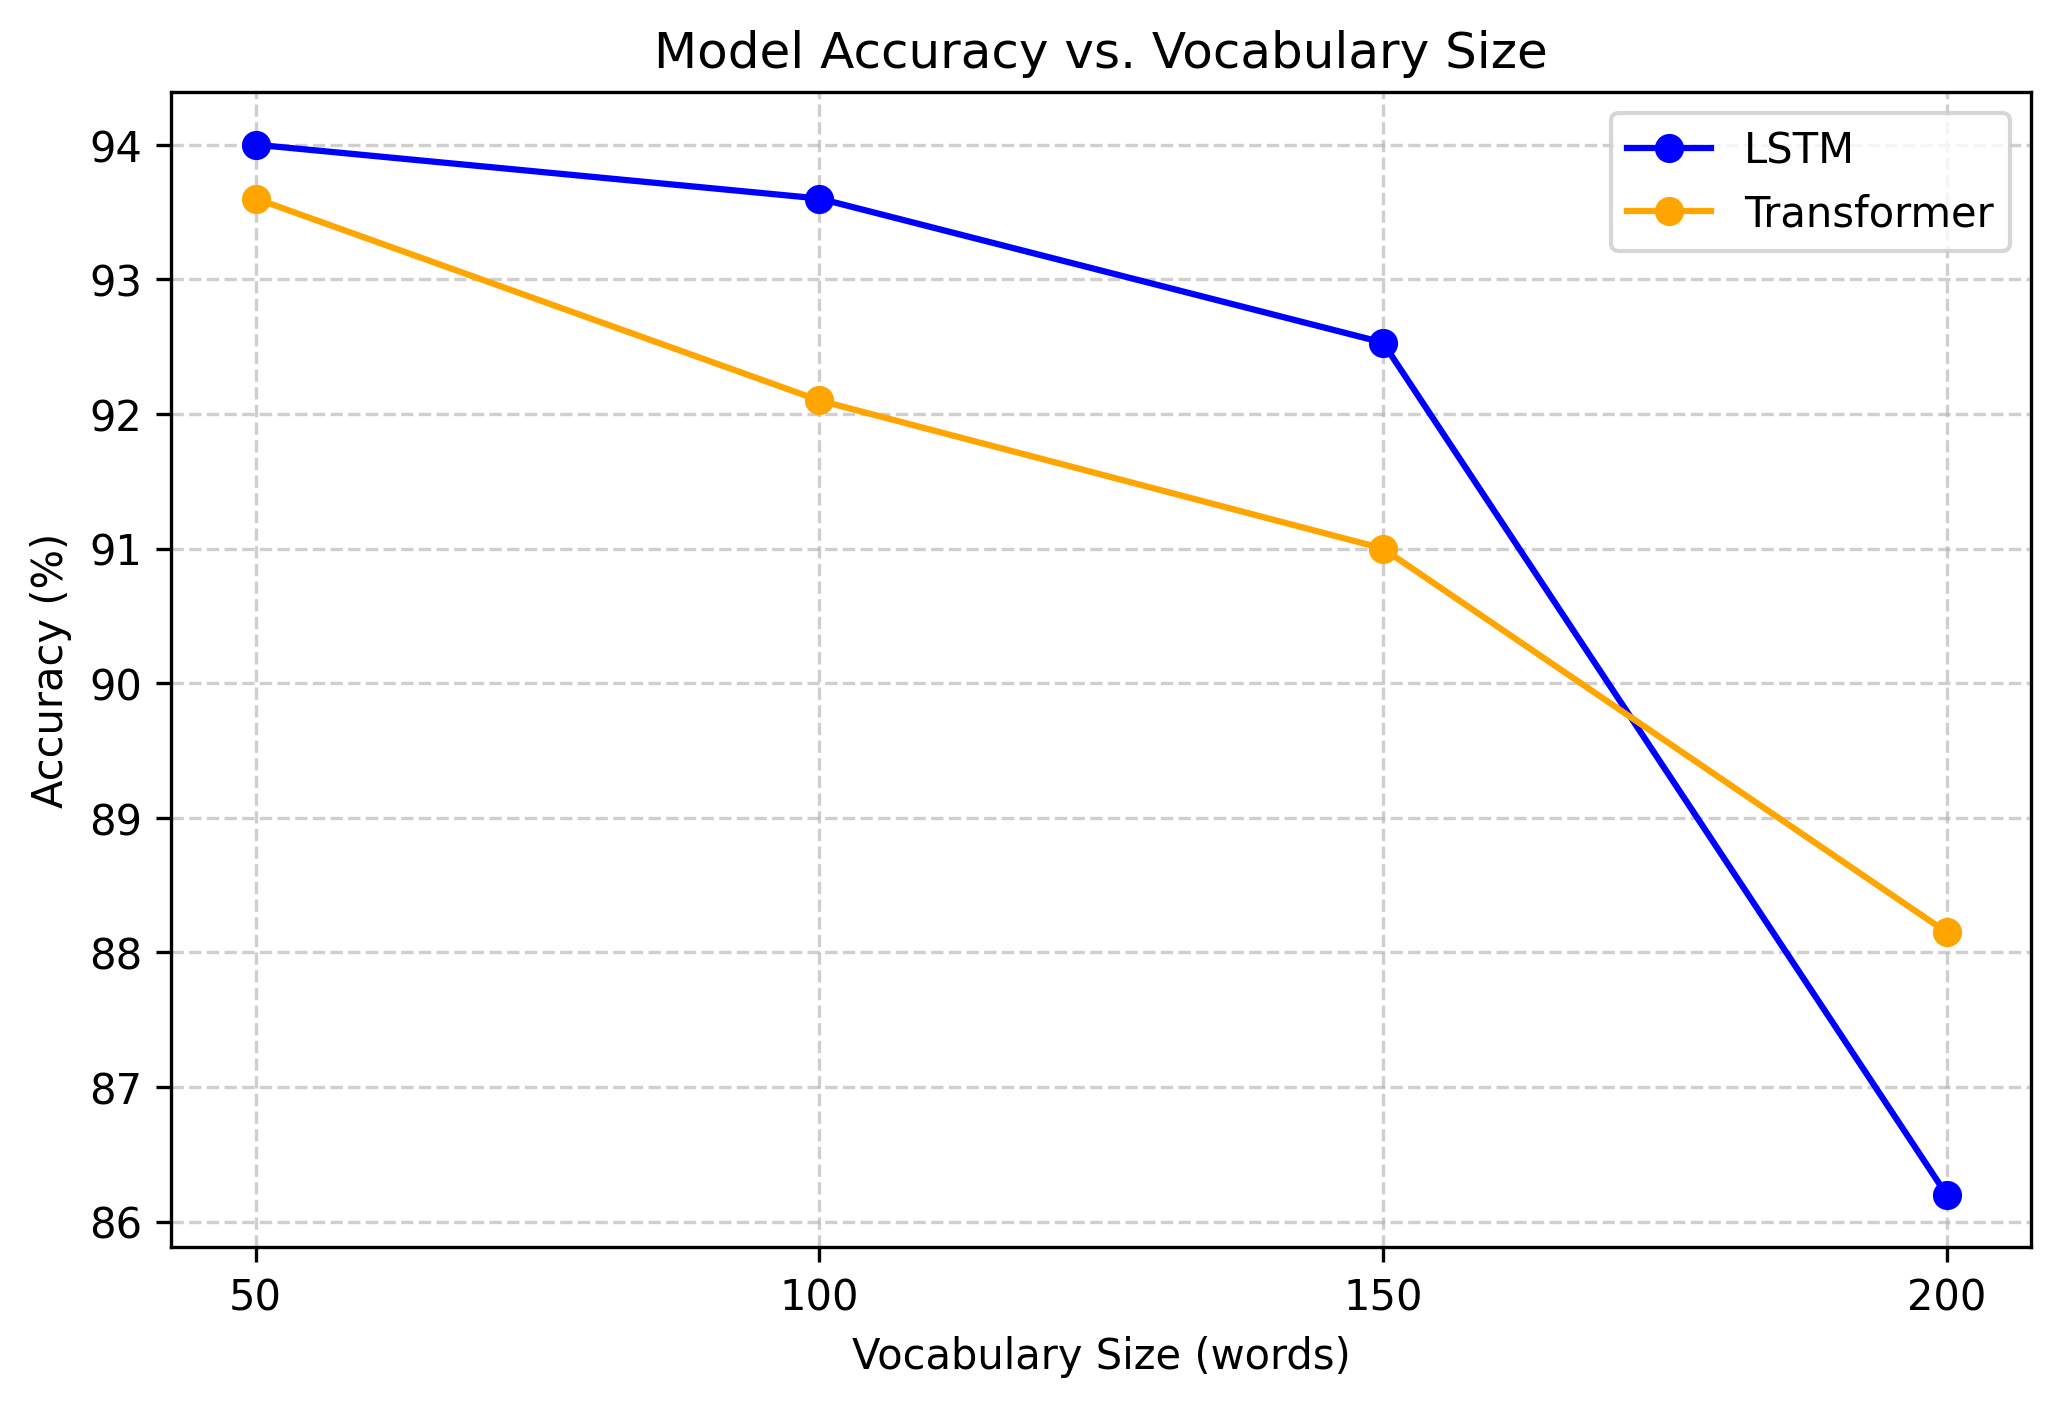
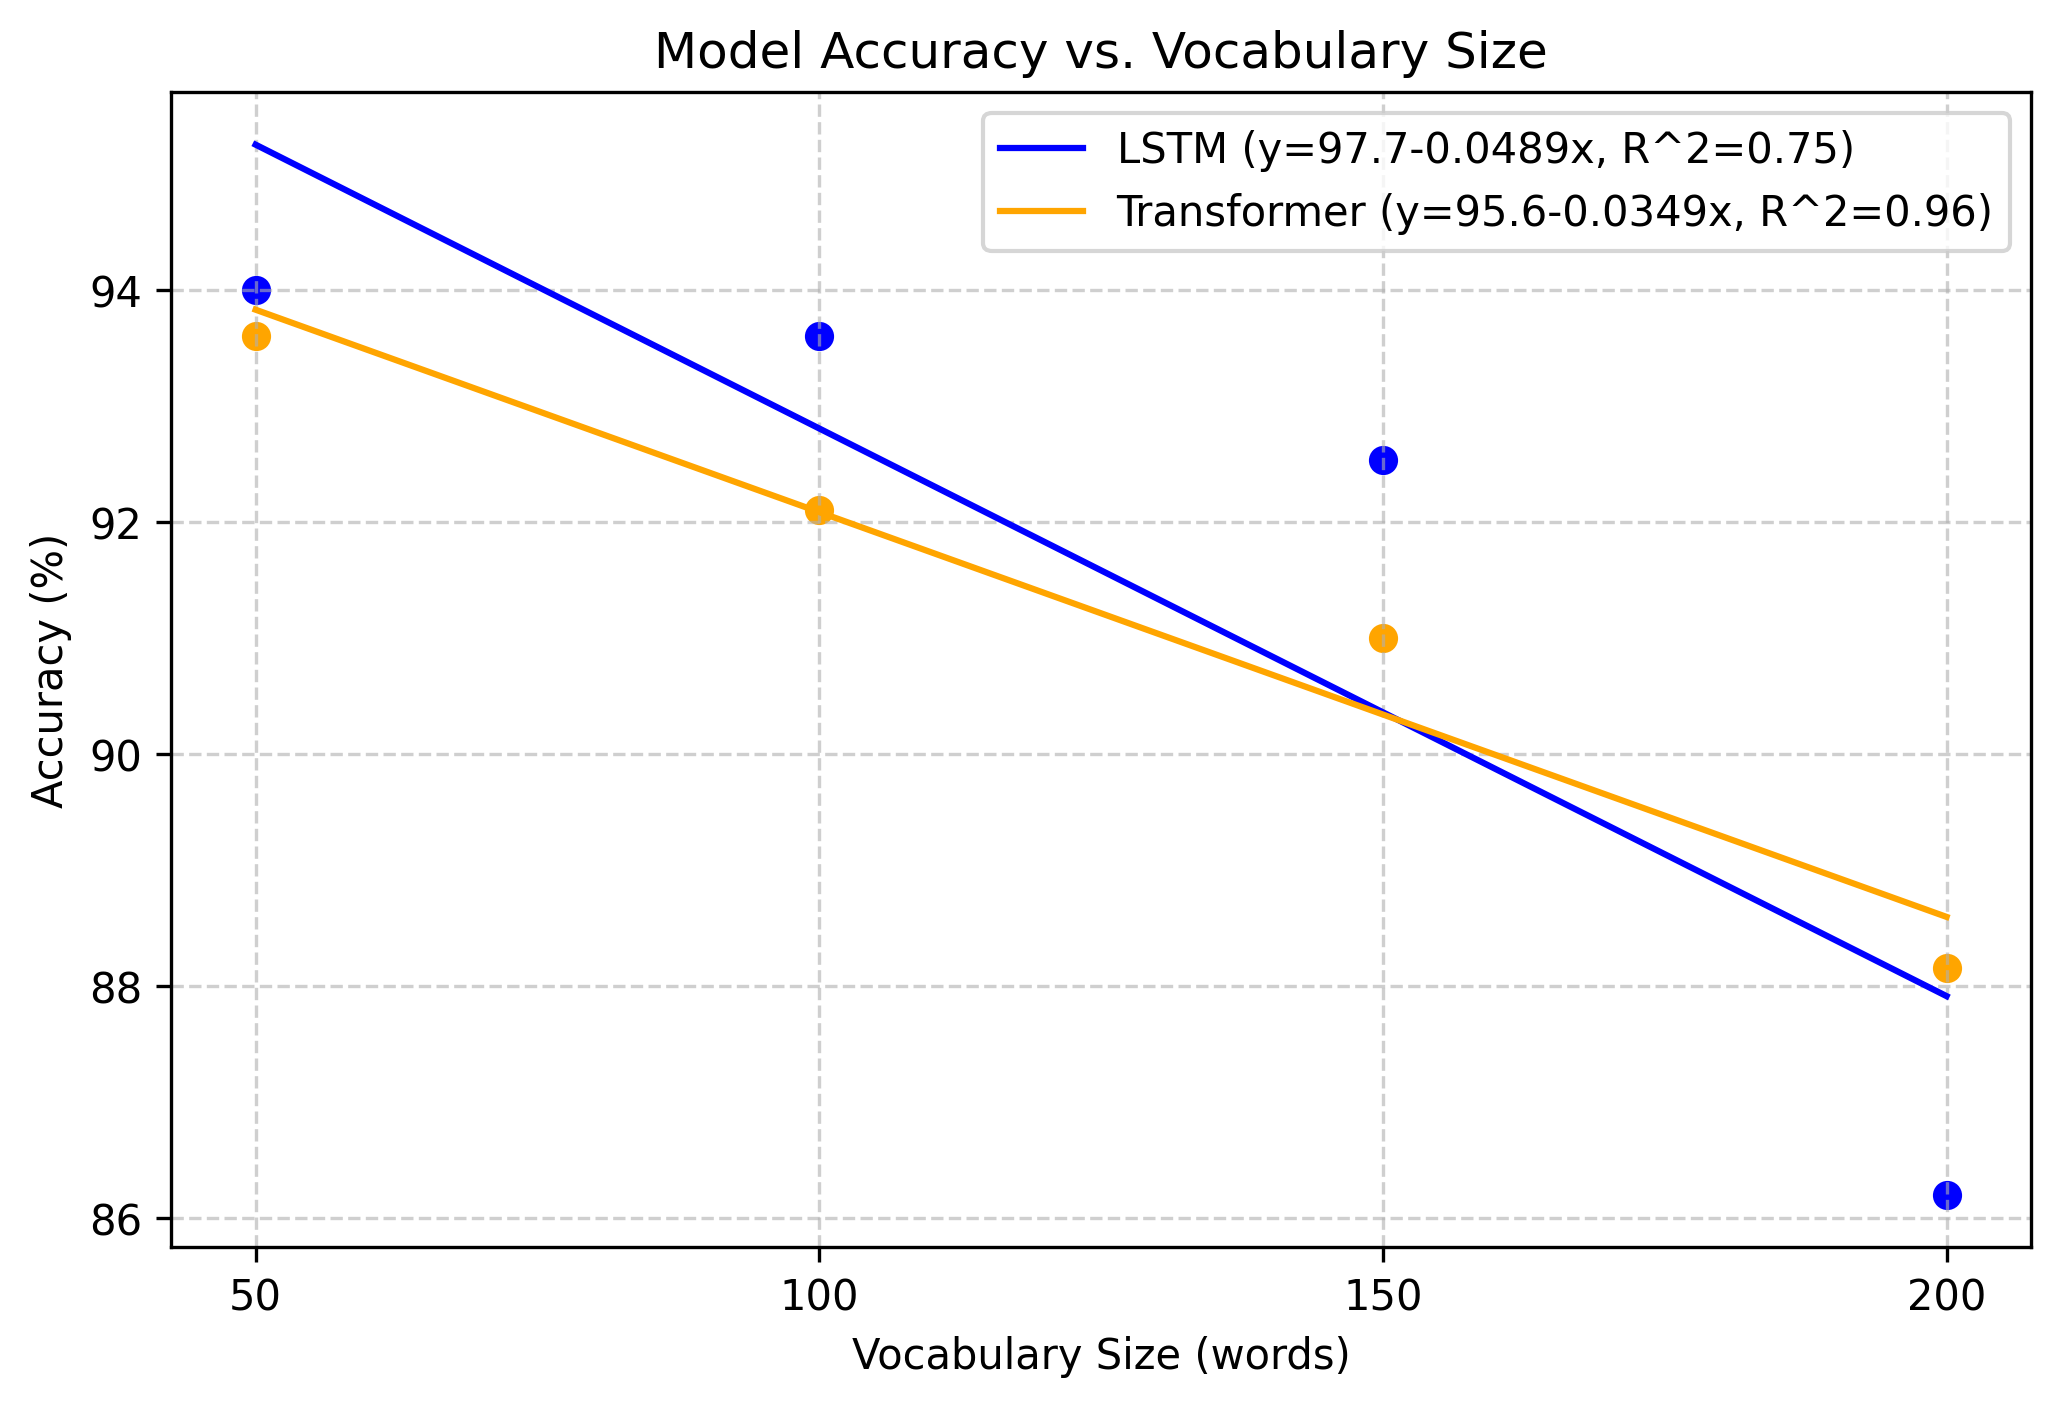
New graphs and code

diff --git a/test/accuracy_graph_test.py b/test/accuracy_graph_test.py
@@ -1,0 +1,33 @@
+import matplotlib.pyplot as plt
+import numpy as np
+
+# Data
+vocab_sizes = [50, 100, 150, 200]
+lstm_acc = [94.0, 93.6, 92.53, 86.2]
+tsf_acc = [93.6, 92.1, 91.0, 88.15]
+
+# Fit polynomial (degree 1 = linear)
+lstm_fit = np.poly1d(np.polyfit(vocab_sizes, lstm_acc, 1))
+tsf_fit = np.poly1d(np.polyfit(vocab_sizes, tsf_acc, 1))
+
+# Smooth x for trend lines
+x_smooth = np.linspace(min(vocab_sizes), max(vocab_sizes), 200)
+
+# Plot
+plt.figure(figsize=(8, 5))
+plt.scatter(vocab_sizes, lstm_acc, color='blue', marker='o')
+plt.scatter(vocab_sizes, tsf_acc, color='orange', marker='o')
+plt.plot(x_smooth, lstm_fit(x_smooth), color='blue', linestyle='-', label="LSTM (y=97.7-0.0489x, R^2=0.75)")
+plt.plot(x_smooth, tsf_fit(x_smooth), color='orange', linestyle='-', label="Transformer (y=95.6-0.0349x, R^2=0.96)")
+
+# Labels & Title
+plt.xlabel("Vocabulary Size (words)")
+plt.ylabel("Accuracy (%)")
+plt.title("Model Accuracy vs. Vocabulary Size")
+plt.xticks(vocab_sizes)
+plt.grid(True, linestyle='--', alpha=0.6)
+plt.legend()
+
+# Save & Show
+plt.savefig("accuracy_lstm_vs_tsf.png", dpi=300, bbox_inches="tight")
+plt.show()

diff --git a/test/CTC_graph_test.py b/test/CTC_graph_test.py
@@ -1,12 +1,20 @@
 import matplotlib.pyplot as plt
+import numpy as np
 
 # Data
 epochs = list(range(1, 11))
 val_wer = [97.72, 66.83, 52.55, 43.45, 41.83, 33.15, 31.48, 27.45, 26.32, 19.68]
 
+# Fit polynomial (degree 2 works well for curve)
+wer_fit = np.poly1d(np.polyfit(epochs, val_wer, 2))
+
+# Smooth x for trend line
+x_smooth = np.linspace(min(epochs), max(epochs), 200)
+
 # Plot
 plt.figure(figsize=(8, 5))
-plt.plot(epochs, val_wer, marker='o', linestyle='-', color='blue', label='Validation WER')
+plt.scatter(epochs, val_wer, color='blue', marker='o')
+plt.plot(x_smooth, wer_fit(x_smooth), color='blue', linestyle='-', label="Validation WER (trend)")
 
 # Labels & Title
 plt.xlabel("Epoch")
